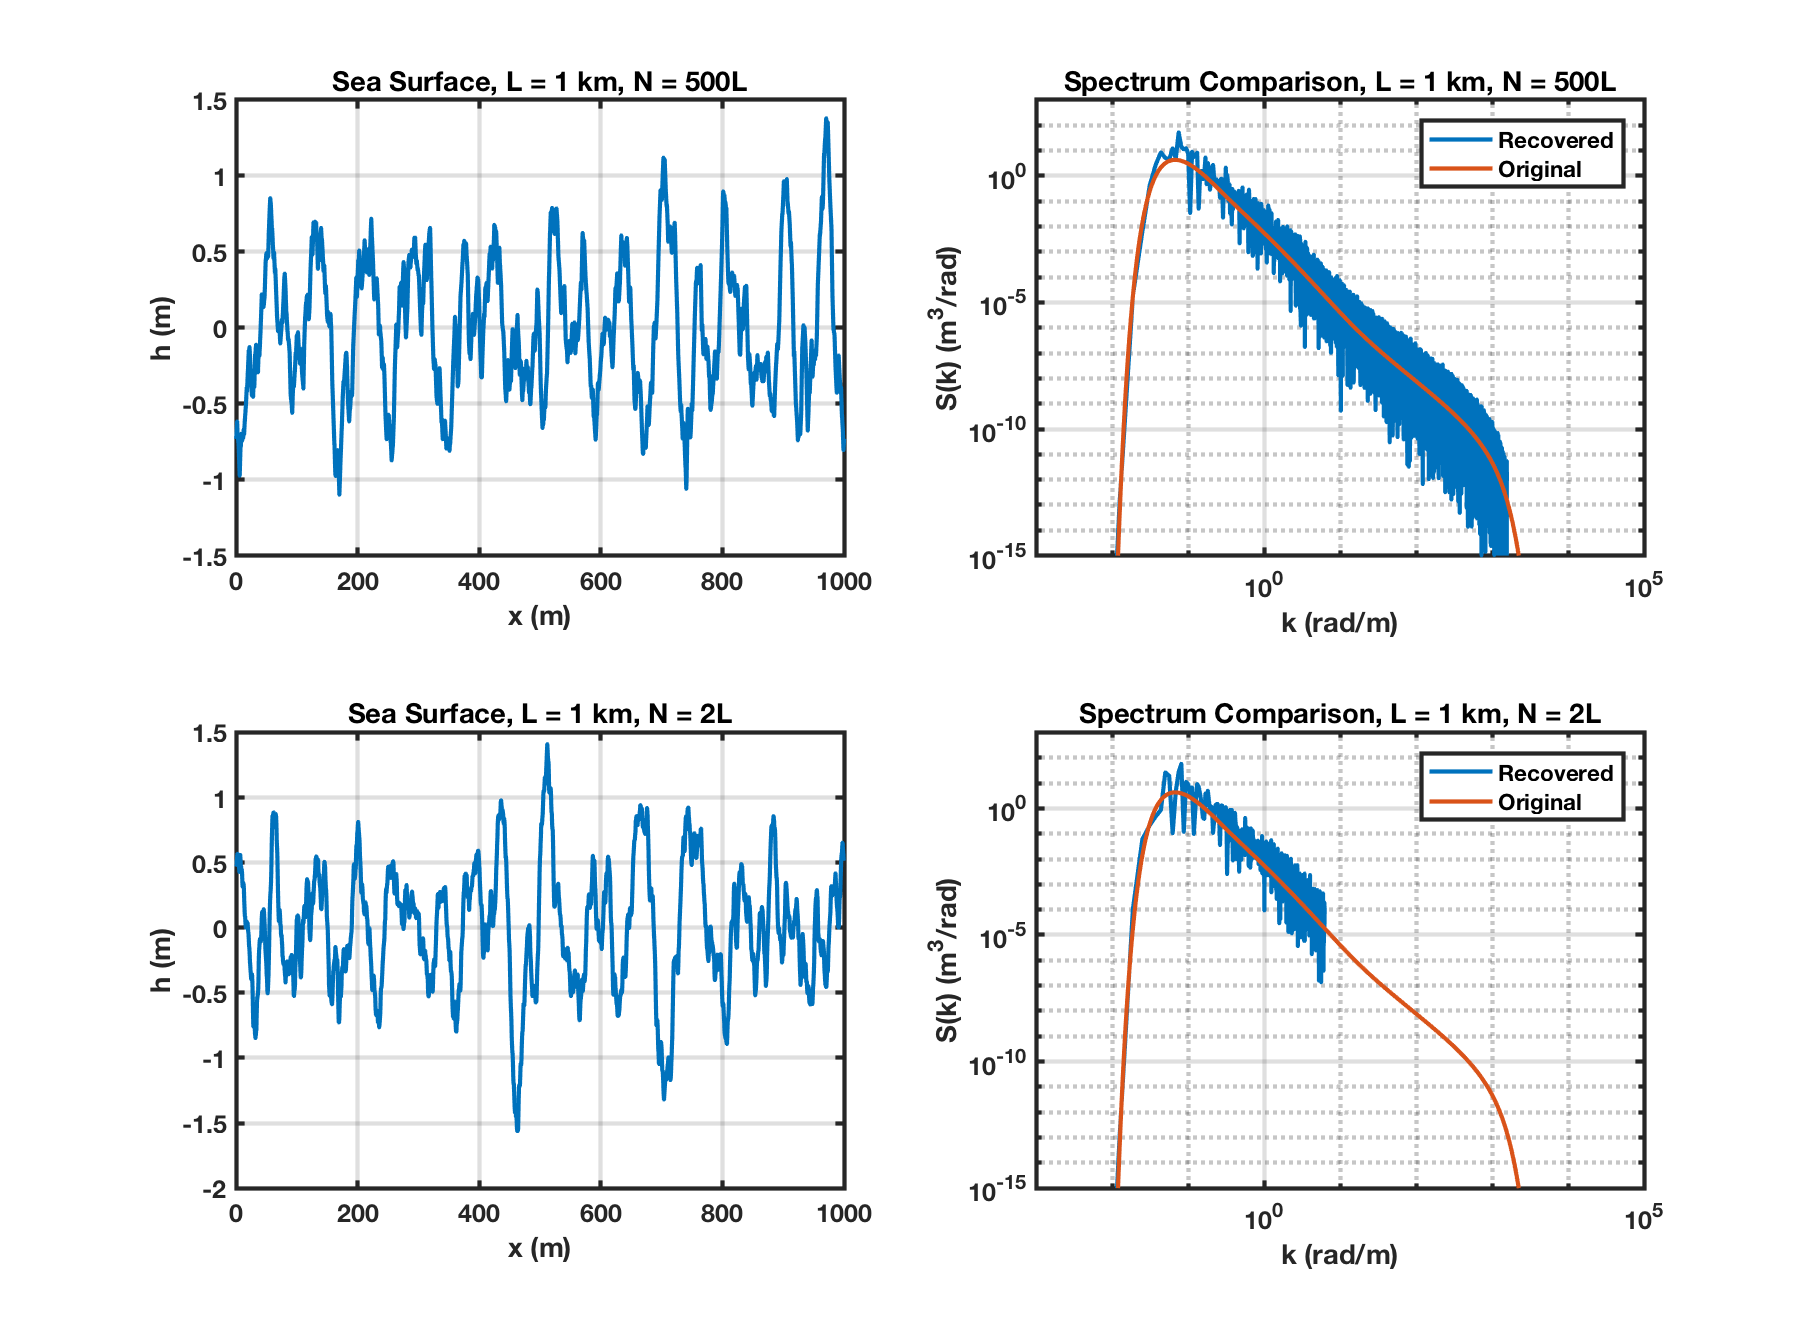
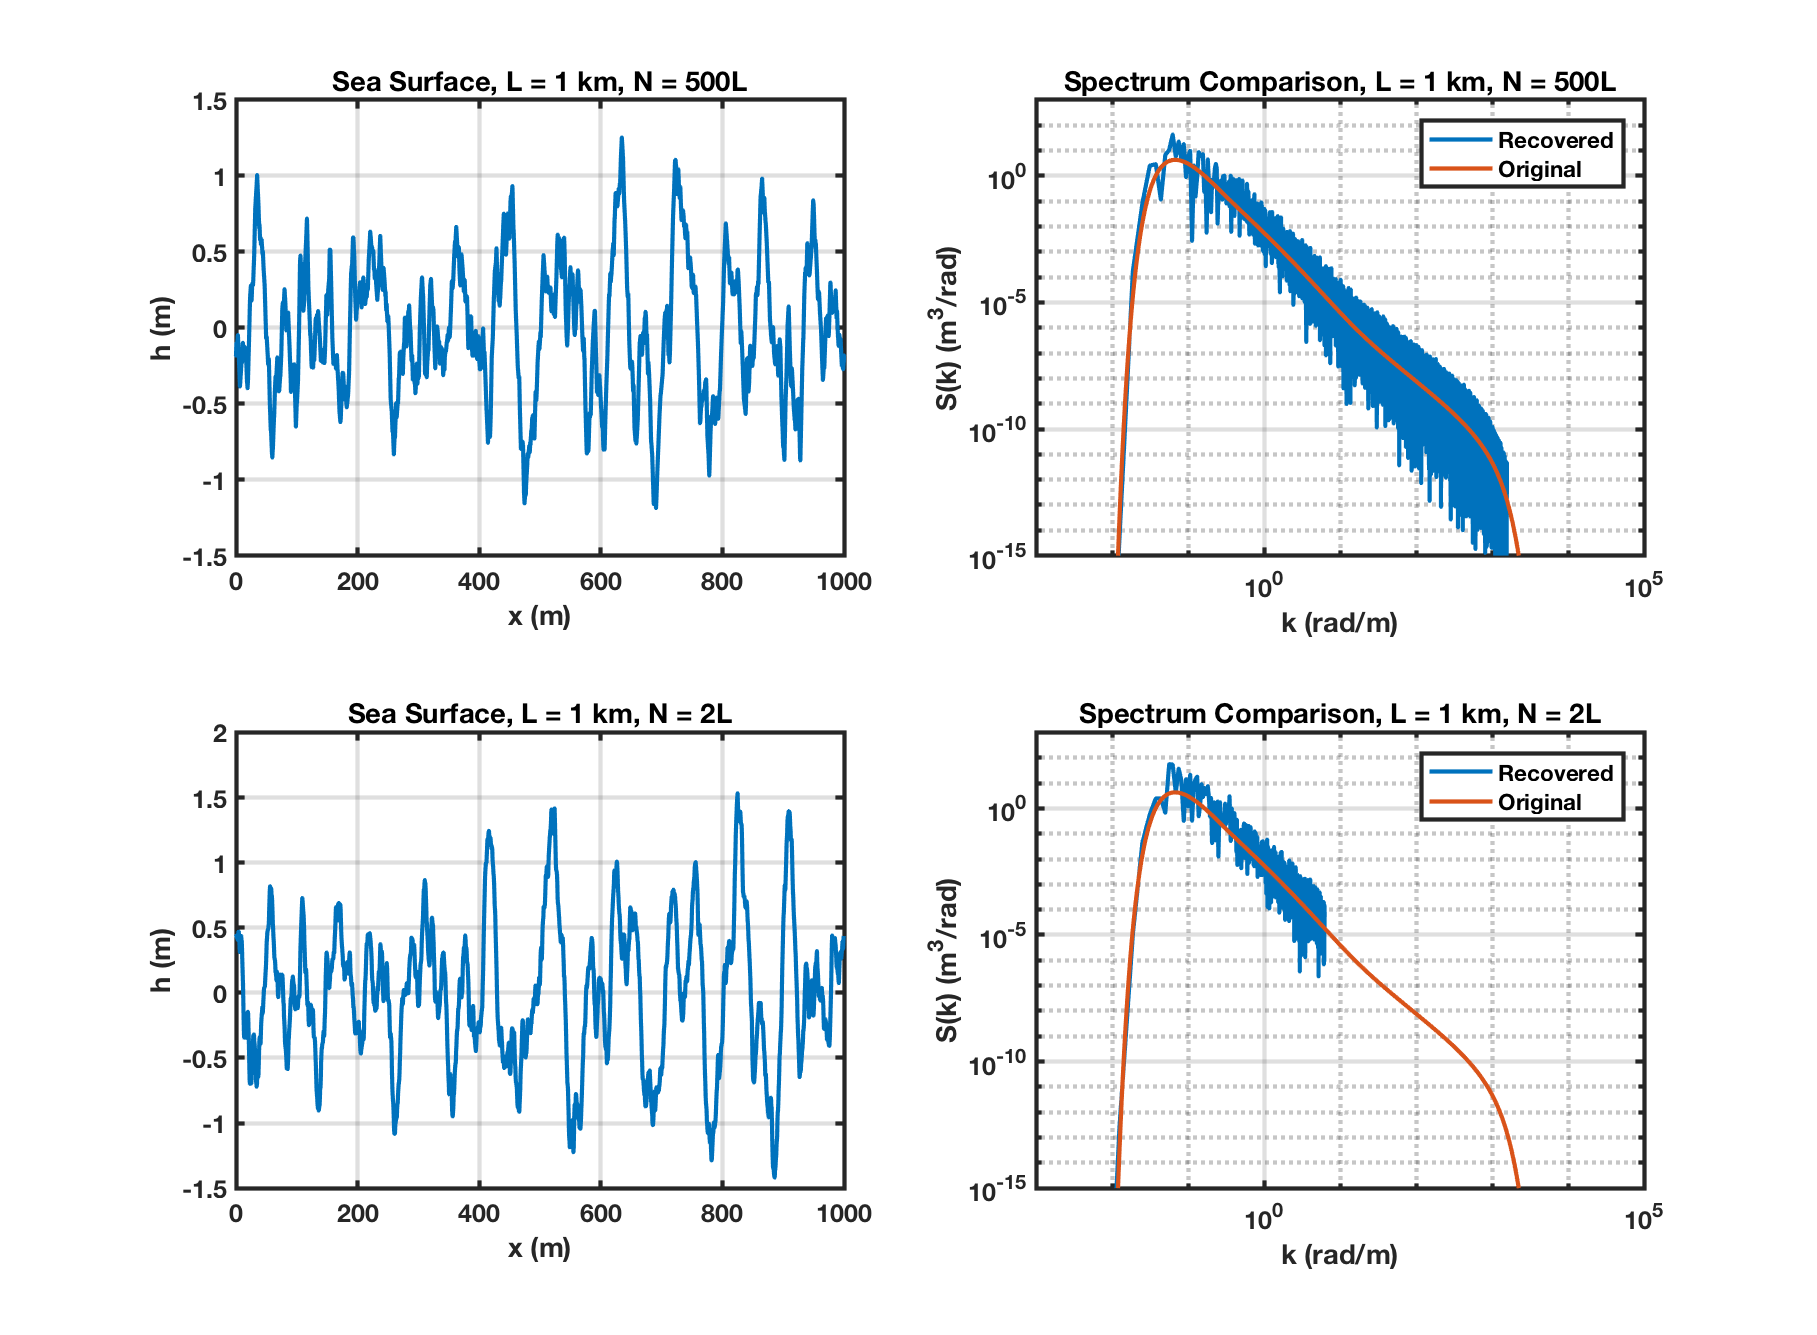
Updating images to rework titles

diff --git a/src/ocean_surface_generation.tex b/src/ocean_surface_generation.tex
@@ -311,7 +311,7 @@ Figure \ref{os_fig:7bb} shows the 2-D variance and curvature power spectra. In t
 \end{figure}
 \renewcommand{\baselinestretch}{2} \small\normalsize
 
-Figure \ref{os_fig:7bc} shows 2-D slices of the power spectrum vs the 1-D power spectrum on the left hand side ($\Psi_x = \Psi(k_y = 0)$, $\Psi_u = \Psi(k_x = 0)$) and the same for the curvature spectrum on the right hand side.
+Figure \ref{os_fig:7bc} shows 2-D slices of the power spectrum vs the 1-D power spectrum on the left hand side and the same for the curvature spectrum on the right hand side. Here,  $\Psi_x = \Psi(k_y = 0)$ and $\Psi_u = \Psi(k_x = 0)$.
 \begin{figure}[H]
   \begin{center}
 \includegraphics[width=6in]{../media/Ocean_Surface/elf_variance_curvature_spectrum_2D_slices.png}
@@ -323,7 +323,7 @@ Figure \ref{os_fig:7bc} shows 2-D slices of the power spectrum vs the 1-D power 
 \end{figure}
 \renewcommand{\baselinestretch}{2} \small\normalsize
 
-Figure \ref{os_fig:7cc} shows the low frequency behavior of the 2-D variance power spectrum for $|k| leq$ 2 rad/m.
+Figure \ref{os_fig:7cc} shows the low frequency behavior of the 2-D variance power spectrum for $|k| \leq$ 2 rad/m.
 \begin{figure}[H]
   \begin{center}
 \includegraphics[width=4in]{../media/Ocean_Surface/elf_variance_spectrum_2D_zoom.png}
@@ -373,13 +373,13 @@ To generate the frequency domain representation ($V_j$), we will take a set of G
 \begin{equation}
   \label{os_eq:8}   
   V_j = \begin{cases}
-    \sqrt{\frac{1}{2}S_0\Delta k}w_0, & j = 0 \\
+    \sqrt{S_0\Delta k}w_0, & j = 0 \\
     \frac{1}{2}\sqrt{\frac{1}{2}S_j\Delta k}\left[w_j + iu_j \right], & 1 \leq j < \frac{N}{2} \\
-   \sqrt{\frac{1}{2}S_{N/2}\Delta k}u_0 & j = \frac{N}{2} \\
+   \sqrt{S_{N/2}\Delta k}u_0 & j = \frac{N}{2} \\
     V_{N-j}^*, &  \frac{N}{2} < j \leq N-1 
   \end{cases} 
 \end{equation}
-The extra factor of $\frac{1}{2}$ in line 2 of Equation \ref{os_eq:8} comes from the fact that we have Hermitian symmetry and need to normalize both the expectations $\left<w_j + iu_j\right>$ and $\left<w_j - iu_j\right>$ to conserve energy.
+The extra factor of $\frac{1}{2}$ in line 2 of Equation \ref{os_eq:8} comes from the fact that we have Hermitian symmetry and need to normalize both the expectations $\left<w_j + iu_j\right>$ and $\left<w_j - iu_j\right>$ to conserve energy. Also note that the power spectrum for frequencies $k = 0$, and $k = \frac{N}{2}$ is not divided by 2 since these are single points that are not repeated.
 
 The index ordering is assumed to have $k=0$ at the first element so that the sequence will wrap in frequency at $j = \frac{N}{2} + 1$. An example sequence for $N = 8$ is shown in Table \ref{os_tab:2a}.
 \begin{table}[H]
@@ -391,11 +391,11 @@ The index ordering is assumed to have $k=0$ at the first element so that the seq
   \begin{tabular} {| c | c | c |}
     \hline
   \bf{$j$} & \bf{$k_j$} & \bf{$V_j$} \\ \hline
-  $0$ & $0$ & $\sqrt{\frac{S_{0}}{2} \Delta k}w_0$ \\ \hline
+  $0$ & $0$ & $\sqrt{S_{0} \Delta k}w_0$ \\ \hline
   $1$ & $\Delta k$ & $\frac{1}{2}\sqrt{\frac{S_{1}}{2} \Delta k} \left(w_1 + iu_1 \right)$ \\ \hline
   $2$ & $2\Delta k$ & $\frac{1}{2}\sqrt{\frac{S_{2}}{2} \Delta k} \left(w_2 + iu_2 \right)$ \\ \hline
   $3$ & $3\Delta k$ & $\frac{1}{2}\sqrt{\frac{S_{3}}{2} \Delta k} \left(w_3 + iu_3 \right)$ \\ \hline
-  $4$ & $4\Delta k$ & $\sqrt{\frac{S_{4}}{2} \Delta k} u_0$ \\ \hline
+  $4$ & $4\Delta k$ & $\sqrt{S_{4} \Delta k} u_0$ \\ \hline
   $5$ & $-3\Delta k$ & $\frac{1}{2}\sqrt{\frac{S_{3}}{2} \Delta k} \left(w_3 - iu_3 \right)$ \\ \hline
   $6$ & $-2\Delta k$ & $\frac{1}{2}\sqrt{\frac{S_{2}}{2} \Delta k} \left(w_2 - iu_2 \right)$  \\ \hline
   $7$ & $-\Delta k$ & $\frac{1}{2}\sqrt{\frac{S_{1}}{2} \Delta k} \left(w_1 - iu_1 \right)$ \\ \hline
@@ -468,9 +468,9 @@ The process to generate the frequency domain representation starts by using Equa
 \begin{equation}
   \label{os_eq:9a}   
   V(\alpha,j) = \begin{cases}
-    \sqrt{\frac{1}{2}\Psi(\alpha,j)\Delta k^2}w(0), & j = 0 \\
-    \frac{1}{4}\sqrt{\Psi(\alpha,j)\Delta k^2}\left[w(j) + iu(j) \right], & 1 \leq j < \frac{N}{2} \\
-   \sqrt{\frac{1}{2}\Psi(\alpha,N/2)\Delta k^2}u(0) & j = \frac{N}{2} \\
+    \sqrt{\Psi(\alpha,j)\Delta k^2}w(0), & j = 0 \\
+    \frac{1}{2}\sqrt{\frac{1}{2}\Psi(\alpha,j)\Delta k^2}\left[w(j) + iu(j) \right], & 1 \leq j < \frac{N}{2} \\
+   \sqrt{\Psi(\alpha,N/2)\Delta k^2}u(0) & j = \frac{N}{2} \\
     V(\alpha,N-j)^*, &  \frac{N}{2} < j \leq N-1 
   \end{cases} 
 \end{equation}
@@ -479,12 +479,12 @@ We can then generate 4 matrices of random variables ($W_1$, $W_2$, $U_1$, and $U
 
 \begin{equation}
 \label{os_eq:10}
-\mathbf{A}(m,n) = \frac{1}{4}\sqrt{\frac{1}{2}\Psi(m+1,n+1)\Delta k^2}\left[W_1(m,n) + iW_2(m,n) \right]
+\mathbf{A}(m,n) = \frac{1}{4}\sqrt{\Psi(m+1,n+1)\Delta k^2}\left[W_1(m,n) + iW_2(m,n) \right]
 \end{equation}
 
 \begin{equation}
 \label{os_eq:11}
-\mathbf{B}(m,n) = \frac{1}{4}\sqrt{\frac{1}{2}\Psi(m+\frac{N}{2} + 1,n+1)\Delta k^2}\left[W_1(m,n) + iW_2(m,n) \right]
+\mathbf{B}(m,n) = \frac{1}{4}\sqrt{\Psi(m+\frac{N}{2} + 1,n+1)\Delta k^2}\left[W_1(m,n) + iW_2(m,n) \right]
 \end{equation}
 
 In these equations, the offsets in indexing $\Psi$ ensure that the correct spectral component is used. As with Equation \ref{os_eq:8}, we have an extra scale factor to account for the additional expectations. Because we are working in 2-dimensional space (both $x$ and $y$), we have a factor of $\frac{1}{4}$ instead of $\frac{1}{2}$.

diff --git a/mfiles/generate2DElfouhailySpectra.m b/mfiles/generate2DElfouhailySpectra.m
@@ -76,30 +76,36 @@ colorbar
 %% plot the spectrum slices
 h(3) = figure('pos',[50 50 1000 400]);
 subplot(1,2,1)
-loglog(k1,Sx);
+loglog(k1,Sx,'LineWidth',2);
 hold on
-loglog(k1, Sy);
-loglog(k1,S1);
+loglog(k1, Sy,'LineWidth',2);
+loglog(k1,S1,'LineWidth',2);
 legend('\Psi_x','\Psi_y','S');
 xlim([10^-3 10^5]);
 ylim([10^-15 10^5]);
 grid on
 title('Variance Spectrum Comparison of 2D Slices and 1D')
+set(gca,'LineWidth',2)
+set(gca,'FontSize',12)
+set(gca,'FontWeight','bold')
 
 subplot(1,2,2)
-loglog(k1,k1.^4.*Sx);
+loglog(k1,k1.^4.*Sx,'LineWidth',2);
 hold on
-loglog(k1,k1.^4.*Sy);
-loglog(k1,k1.^3.*S1);
+loglog(k1,k1.^4.*Sy,'LineWidth',2);
+loglog(k1,k1.^3.*S1,'LineWidth',2);
 legend('k^4\Psi_x','k^4\Psi_y','k^3S');
 xlim([10^-3 10^5]);
 ylim([10^-4 10^0]);
 grid on
 title('Curvature Spectrum Comparison of 2D Slices and 1D')
+set(gca,'LineWidth',2)
+set(gca,'FontSize',12)
+set(gca,'FontWeight','bold')
 
 if(saveFigs)
  saveas(h(1),'elf_variance_curvature_spectrum_2D.png','png')
- saveas(h(2),'elf_variance_curvature_spectrum_2D_zoom.png','png')
+ saveas(h(2),'elf_variance_spectrum_2D_zoom.png','png')
  saveas(h(3),'elf_variance_curvature_spectrum_2D_slices.png','png')
 end
 

diff --git a/mfiles/generateSeaSurface2D.m b/mfiles/generateSeaSurface2D.m
@@ -77,8 +77,8 @@ for(j = 2:N/2)
     Vx0(j) = 1/2*sqrt(S(1,j)/2*dk^2)*(w1(j) + 1i*u1(j));
     Vy0(j) = 1/2*sqrt(S(j,1)/2*dk^2)*(w2(j) + 1i*u2(j));
 end
-Vx0(N/2+1) = sqrt(S(1,N/2+1)/2*dk^2)*u1(1);
-Vy0(N/2+1) = sqrt(S(N/2+1,1)/2*dk^2)*u2(1);
+Vx0(N/2+1) = sqrt(S(1,N/2+1)*dk^2)*u1(1);
+Vy0(N/2+1) = sqrt(S(N/2+1,1)*dk^2)*u2(1);
 
 for (j = N/2+2:N)
 Vx0(j) = conj(Vx0(N-j + 2));
@@ -96,16 +96,16 @@ w4 = randn(1,N/2);
 u4 = randn(1,N/2);
 
 %build the N/2 frequency lines
-Vx2(1) = sqrt(S(N/2+1,1)/2*dk^2)*w3(1);
-Vy2(1) = sqrt(S(1,N/2+1)/2*dk^2)*w4(1);
+Vx2(1) = sqrt(S(N/2+1,1)*dk^2)*w3(1);
+Vy2(1) = sqrt(S(1,N/2+1)*dk^2)*w4(1);
 
 for(j = 2:N/2)
     Vx2(j) = 1/2*sqrt(S(N/2+1,j)/2*dk^2)*(w3(j) + 1i*u3(j));
     Vy2(j) = 1/2*sqrt(S(j,N/2+1)/2*dk^2)*(w4(j) + 1i*u4(j));
 end
 
-Vx2(N/2+1) = sqrt(S(N/2+1,N/2+1)/2*dk^2)*u4(1);
-Vy2(N/2+1) = sqrt(S(N/2+1,N/2+1)/2*dk^2)*u4(1);
+Vx2(N/2+1) = sqrt(S(N/2+1,N/2+1)*dk^2)*u4(1);
+Vy2(N/2+1) = sqrt(S(N/2+1,N/2+1)*dk^2)*u4(1);
 
 for (j = N/2+2:N)
 Vx2(j) = conj(Vx2(N-j + 2));

diff --git a/mfiles/generateOceanSurface2DTestPlots.m b/mfiles/generateOceanSurface2DTestPlots.m
@@ -84,6 +84,10 @@ hh(2) = figure('pos',[50 50 872 641]);
 Pxx1 = periodogram(h(N/2+1,:),[],'onesided',N,1/dx);
 Pxx2 = periodogram(h(:,N/2+1),[],'onesided',N,1/dx);
 
+Sx = Elfouhaily2D(k1,zeros(size(k1)),U10,age);
+Sy = Elfouhaily2D(k1,pi/2*ones(size(k1)),U10,age);
+S1 = Elfouhaily(k1,U10,age);
+
 subplot(2,2,1)
 plot(x,h(N/2+1,:),'LineWidth',2);
 xlabel('x (m)');
@@ -99,7 +103,7 @@ xlim([0 1000])
 subplot(2,2,2)
 loglog(kx(N/2+1:end),Pxx1(1:N/2),'LineWidth',2);
 hold on
-loglog(k1,Elfouhaily(k1,U10,age),'LineWidth',2);
+loglog(k1,S1,'LineWidth',2);
 legend('Recovered','1-D S')
 ylim([10^-15 10^3])
 xlim([10^-3 10^5]);
@@ -128,7 +132,7 @@ xlim([0 1000])
 subplot(2,2,4)
 loglog(kx(N/2+1:end),Pxx2(1:N/2),'LineWidth',2);
 hold on
-loglog(k1,Elfouhaily(k1,U10,age),'LineWidth',2);
+loglog(k1,S1,'LineWidth',2);
 legend('Recovered','1-D S')
 ylim([10^-15 10^3])
 xlim([10^-3 10^5]);

diff --git a/mfiles/generateSeaSurface.m b/mfiles/generateSeaSurface.m
@@ -21,11 +21,11 @@ V = [];
 w = randn(1,N/2);
 u = randn(1,N/2);
 
-V(1) = sqrt(S(1)/2*dk)*w(1);
+V(1) = sqrt(S(1)*dk)*w(1);
 for(j = 2:N/2)
     V(j) = 1/2*sqrt(S(j)/2*dk)*(w(j) + 1i*u(j));
 end
-V(N/2+1) = sqrt(S(N/2+1)/2*dk)*u(1);
+V(N/2+1) = sqrt(S(N/2+1)*dk)*u(1);
 
 for (j = N/2+2:N)
 V(j) = conj(V(N-j + 2));
